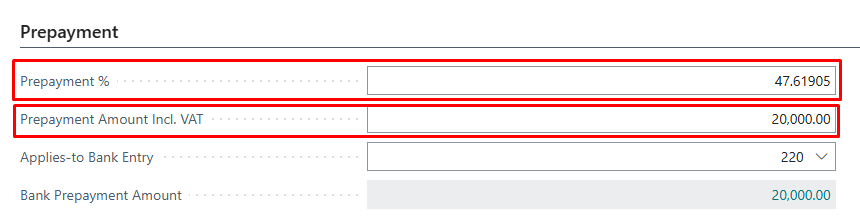
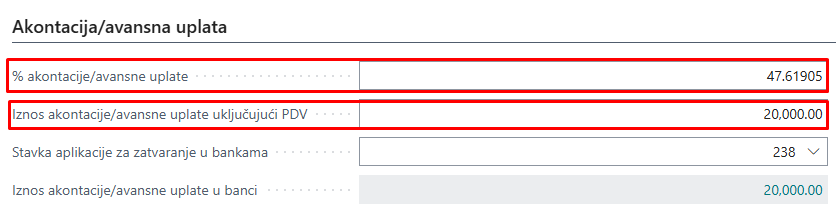
Final changes

diff --git a/docs/sh/Avansi/AvansProdaja.md b/docs/sh/Avansi/AvansProdaja.md
@@ -4,15 +4,15 @@
 
 Podešavanja važe za određivanje konta na kojima će biti evidentirane avansne uplate i PDV, koji se obračunava na osnovu datih avansnih uplata.
 
-### **1.1 Customer Posting Setup**
+### **1.1 Grupe knjiženja kupaca**
 
-Podešavanjem knjižnih grupa kupaca određuje se konto na koji će biti evidentirane sve avansne uplate primljene od kupca, što se definiše u koloni *Prepayment Account*. Kada se određena knjižna grupa dodeli kartici kupca, sve poslovne promene tog kupca biće knjižene na kontima povezanim s tom grupom.
+Podešavanjem knjižnih grupa kupaca određuje se konto na koji će biti evidentirane sve avansne uplate primljene od kupca, što se definiše u koloni *Poslovni kontakt akontacije/avansne uplate*. Kada se određena knjižna grupa dodeli kartici kupca, sve poslovne promene tog kupca biće knjižene na kontima povezanim s tom grupom.
 
 ![avans](../assets/AvansiProdaja/Avans1.png)
 
-### **1.2 General Posting Setup**
+### **1.2 Opšte podešavanje knjiženja**
 
-Da bi iznos na avansnom računu prikazivao samo PDV sadržan u avansnoj uplati prilikom knjiženja, potrebno je evidentirati konto za knjiženje PDV-a iz avansnog računa u polju *Sales Prepayment Account*. Ovaj konto će biti prikazan i na samom avansnom računu u sistemu.
+Da bi iznos na avansnom računu prikazivao samo PDV sadržan u avansnoj uplati prilikom knjiženja, potrebno je evidentirati konto za knjiženje PDV-a iz avansnog računa u polju *Konto akontacija/avansnih uplata u prodaji*. Ovaj konto će biti prikazan i na samom avansnom računu u sistemu.
 
 ![avans](../assets/AvansiProdaja/Avans2.png)
 
@@ -22,15 +22,15 @@ Da bi iznos na avansnom računu prikazivao samo PDV sadržan u avansnoj uplati p
 
 #### **2.1.1 Promet uplata**
 
-Pretragom *Payment Journal-a* pristupa se stranici na kojoj se evidentiraju izvodi. Ukoliko postoji više bankovnih računa, moguće je odvojiti grupe za knjiženje izvoda. Kada se knjiženje odnosi na bankovni račun, potrebno je promeniti tip balansiranja na *Bank Account* i odabrati odgovarajući bankovni račun na osnovu prethodno definisanih podešavanja.
+Pretragom *Nalozi plaćanja* pristupa se stranici na kojoj se evidentiraju izvodi. Ukoliko postoji više bankovnih računa, moguće je odvojiti grupe za knjiženje izvoda. Kada se knjiženje odnosi na bankovni račun, potrebno je promeniti tip balansiranja (Vrsta protivkonta) na *Bankovni račun* i odabrati odgovarajući bankovni račun na osnovu prethodno definisanih podešavanja.
 
 ![avans](../assets/AvansiProdaja/Avans3.png)
 
-Kako bi se uplata smatrala avansnom, prilikom knjiženja te uplate kroz dnevnik, neophodno je čekirati *Prepayment* na liniji knjiženja.
+Kako bi se uplata smatrala avansnom, prilikom knjiženja te uplate kroz dnevnik, neophodno je čekirati *Akontacija/avansna uplata* na liniji knjiženja.
 
 ![avans](../assets/AvansiProdaja/Avans4.png)
 
-Zatim upisati i iznos *(Amount)* i to u negativnom obliku.
+Zatim upisati i iznos *(Iznos)* i to u negativnom obliku.
 
 ![avans](../assets/AvansiProdaja/Avans5.png)
 
@@ -40,7 +40,7 @@ Dokument refundacije se automatski kreira u trenutku izdavanja konačnog računa
 
 ### **2.2 Porudžbenica**
 
-Dodeljivanje avansne uplate poručenim artiklima vrši se putem porudžbenice, što omogućava parcijalno isporučivanje i knjiženje prodaje na osnovu avansne uplate. Iznos avansa unosi se u polje *Prepayment* na porudžbenici, na osnovu čega se može izdati avansni račun. Polje *Applies-to Bank Entry* koristi se za unos iznosa sa izvoda koji je označen kao avansna uplata *(Prepayment)*.
+Dodeljivanje avansne uplate poručenim artiklima vrši se putem porudžbenice, što omogućava parcijalno isporučivanje i knjiženje prodaje na osnovu avansne uplate. Iznos avansa unosi se u polje *Akontacija/avansna uplata* na porudžbenici, na osnovu čega se može izdati avansni račun. Polje *Stavka aplikacije za zatvaranje u bankama* koristi se za unos iznosa sa izvoda koji je označen kao avansna uplata.
 
 ![avans](../assets/AvansiProdaja/Avans6.png)
 
@@ -58,7 +58,7 @@ Takođe, umesto fiksnog iznosa, može se uneti procenat avansne uplate, pri čem
 
 #### **2.3.1 Avansna faktura**
 
-Avansni račun se može kreirati i proknjižiti putem akcije *Posting*. Iznos na avansnom računu odgovara PDV-u iz avansnih uplata koje su prethodno obrađene kroz polje *Prepayment*, odnosno uplatu na koju se avansni račun odnosi.
+Avansni račun se može kreirati i proknjižiti putem akcije *Knjiženje*. Iznos na avansnom računu odgovara PDV-u iz avansnih uplata koje su prethodno obrađene kroz polje *Akontacija/avansna uplata*, odnosno uplatu na koju se avansni račun odnosi.
 
 ![avans](../assets/AvansiProdaja/Avans9.png)
 
